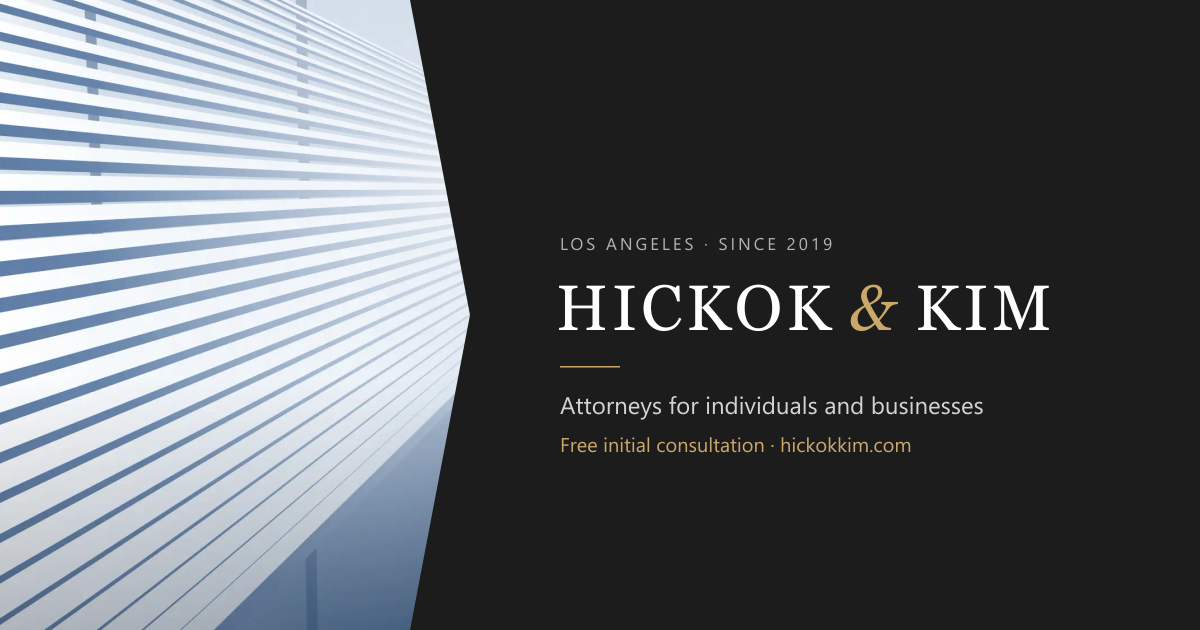
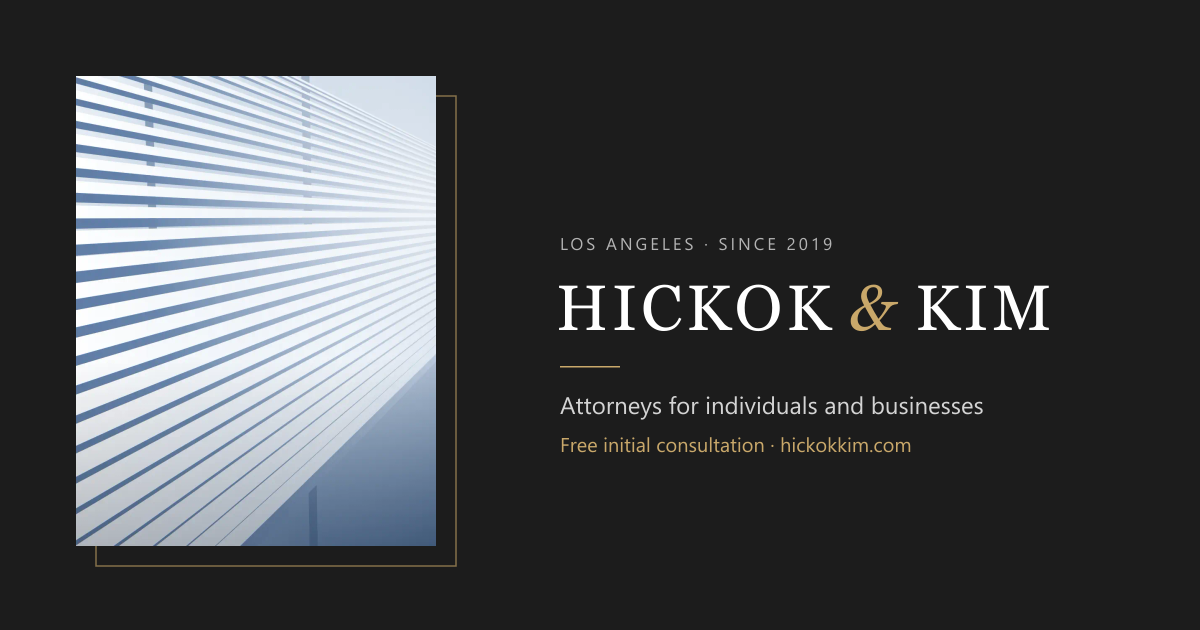
Replace Kirkland's chevron and slant with a framed-print treatment
Yochan felt the pointed chevron on the home showcase copied Kirkland too
closely. The slanted edge on the feature bands is the same Kirkland signature,
so both are replaced.

- Home showcase: artwork sits inset below the header like a framed print, with
  a thin brass frame offset down and to the right. The header no longer needs
  shifting to keep the wordmark off the pale art, so that override is removed.
  The slow zoom is off in framed mode, since it pushed images past the frame.
- Feature / CTA bands: same framed print, built from ::before (frame) and
  ::after (image via --art), so no extra markup.
- Share image regenerated with the framed print instead of the chevron.
- Mobile keeps full-bleed artwork with the top shade.

No overflow at 320-1440; both site checks pass.

Changed region(s): [[0.0, 0.0, 0.4008, 1.0]]

diff --git a/src/styles/global.css b/src/styles/global.css
@@ -318,8 +318,12 @@ figure.data-table figcaption { font-size: .72rem; letter-spacing: .12em; text-tr
 /* ---------- feature band (angled image + charcoal panel) ---------- */
 .feature { background: var(--charcoal); color: #d4d4d4; display: grid; grid-template-columns: 1fr; }
 @media (min-width: 900px) { .feature { grid-template-columns: minmax(0, 38%) minmax(0, 1fr); min-height: 380px; } }
-.feature__art { min-height: 220px; background-size: cover; background-position: center; }
-@media (min-width: 900px) { .feature__art { clip-path: polygon(0 0, 100% 0, 86% 100%, 0 100%); } }
+/* Framed print: the image (::after) sits over a brass frame (::before) offset
+   down and to the right. The image URL arrives as --art on the element. */
+.feature__art { position: relative; min-height: 220px; margin: 28px 46px 46px var(--gutter); }
+.feature__art::before { content: ""; position: absolute; inset: 18px -18px -18px 18px; border: 1px solid rgba(201, 168, 106, .55); }
+.feature__art::after { content: ""; position: absolute; inset: 0; background: var(--art) center / cover no-repeat; }
+@media (min-width: 900px) { .feature__art { margin: clamp(40px, 5vw, 64px) 18px clamp(52px, 6vw, 80px) var(--gutter); } }
 .feature__body { padding: clamp(40px, 6vw, 80px) var(--gutter); display: flex; flex-direction: column; justify-content: center; gap: 18px; max-width: 760px; }
 .feature__body h2 { color: #fff; font-size: clamp(1.7rem, 3vw, 2.4rem); }
 .feature__actions { display: flex; flex-wrap: wrap; gap: 12px; margin-top: 6px; }

diff --git a/README.md b/README.md
@@ -55,12 +55,12 @@ Stale pages lose AI citations. Every quarter:
 
 ## Design system
 
-The site follows the structure and feel of large-firm editorial sites such as kirkland.com: charcoal page heroes, alternating white and light-gray sections, a serif label in a narrow left column with content on the right, navigation held in a full-screen MENU overlay, outlined square buttons, and angled artwork panels. It does not copy any other firm's code, imagery, or branding. The accent colour is Hickok & Kim brass.
+The site follows the structure and feel of large-firm editorial sites such as kirkland.com: charcoal page heroes, alternating white and light-gray sections, a serif label in a narrow left column with content on the right, navigation held in a full-screen MENU overlay, outlined square buttons, and artwork set as inset framed prints with an offset brass frame. It does not copy any other firm's code, imagery, or branding. The accent colour is Hickok & Kim brass.
 
 - **Tokens** live at the top of `src/styles/global.css`. To change the accent colour, edit `--accent`, `--accent-on-dark`, and `--accent-fill` only. Each was chosen to pass 4.5:1 contrast on its background.
 - **Type** is Playfair Display for headings and Rubik for body text, loaded asynchronously. Metric-matched fallbacks (`Playfair Fallback`, `Rubik Fallback`) keep layout shift at zero; the size-adjust values were measured in the browser. Re-measure if either family changes.
-- **Building blocks** in `src/components/`: `PageHero` (dark title band with rule and an optional link), `Section` (label-left layout; tones white, mist, dark), `Expandable` ("+ More" truncation that keeps every word in the HTML), `LawyerList`, `CtaBand` (angled art plus charcoal panel), `IntakeForm`, `Header` (with the menu overlay), `Footer`, `StickyCta`.
-- **Home page** opens with a split-screen showcase: angled artwork on the left, charcoal panel on the right, cycling through the three client moments. It auto-advances every eight seconds, pauses on hover or focus, supports arrow keys, and stays still for visitors who prefer reduced motion. All slide text is in the HTML for crawlers.
+- **Building blocks** in `src/components/`: `PageHero` (dark title band with rule and an optional link), `Section` (label-left layout; tones white, mist, dark), `Expandable` ("+ More" truncation that keeps every word in the HTML), `LawyerList`, `CtaBand` (framed art plus charcoal panel), `IntakeForm`, `Header` (with the menu overlay), `Footer`, `StickyCta`.
+- **Home page** opens with a split-screen showcase: framed artwork on the left, charcoal panel on the right, cycling through the three client moments. It auto-advances every eight seconds, pauses on hover or focus, supports arrow keys, and stays still for visitors who prefer reduced motion. All slide text is in the HTML for crawlers.
 - **Artwork** is generated, not photographed: `node scripts/make-art.mjs` renders the louvers, tower facade, contour lines, menu texture, and hero texture into `public/assets/art/`. Then `node scripts/make-og.mjs` rebuilds the share image and icons from that art.
 - **Testimonials** appear on the home page automatically once real, permitted quotes are added to `testimonials` in `src/data/firm.ts`.
 - **vCards** for each partner are generated at `/vcard/<slug>.vcf` from the firm's published phone and email.
